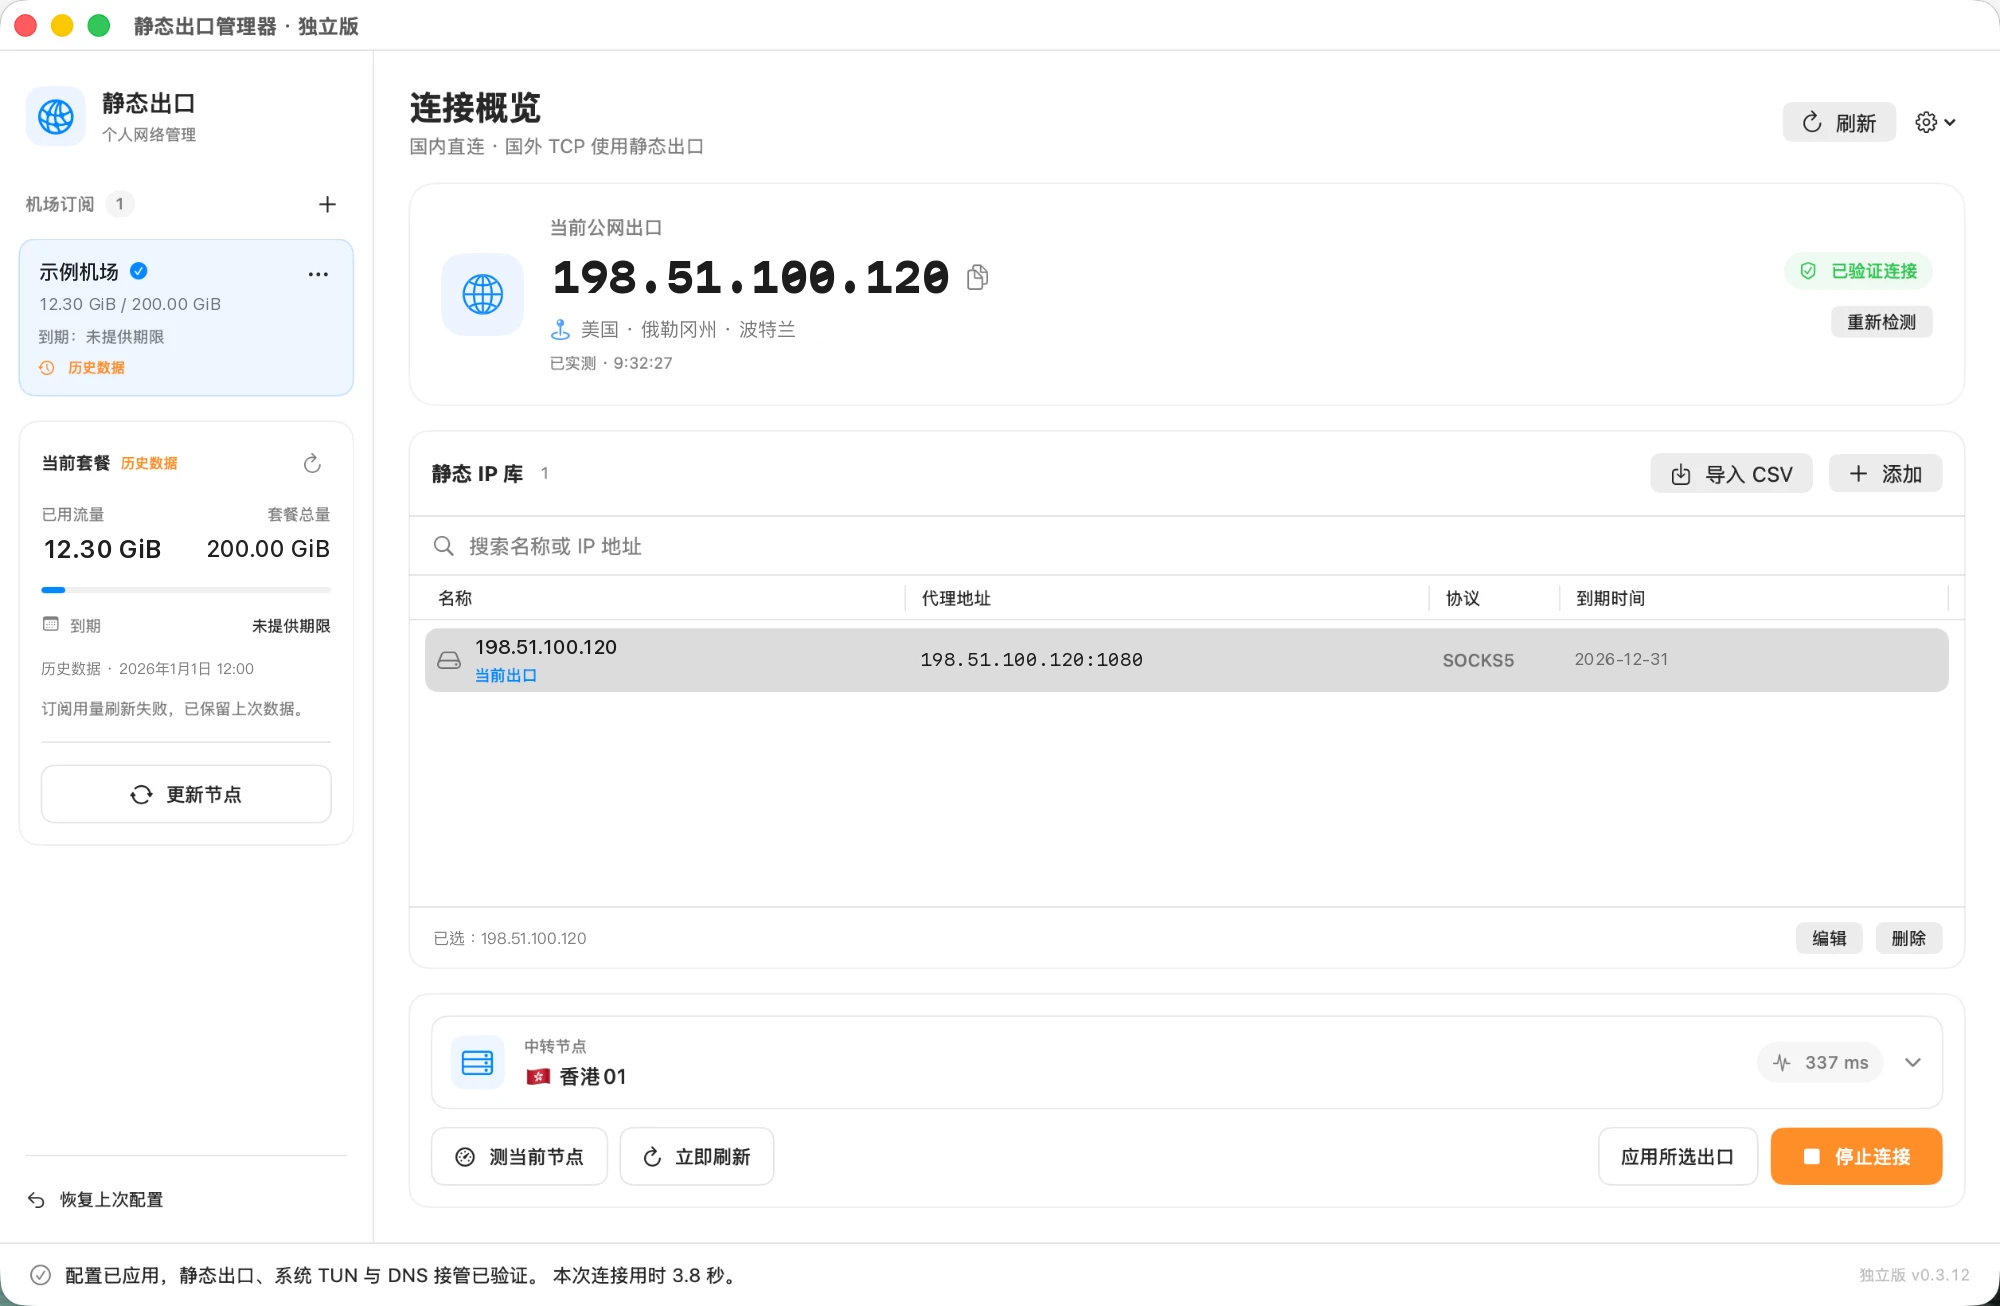
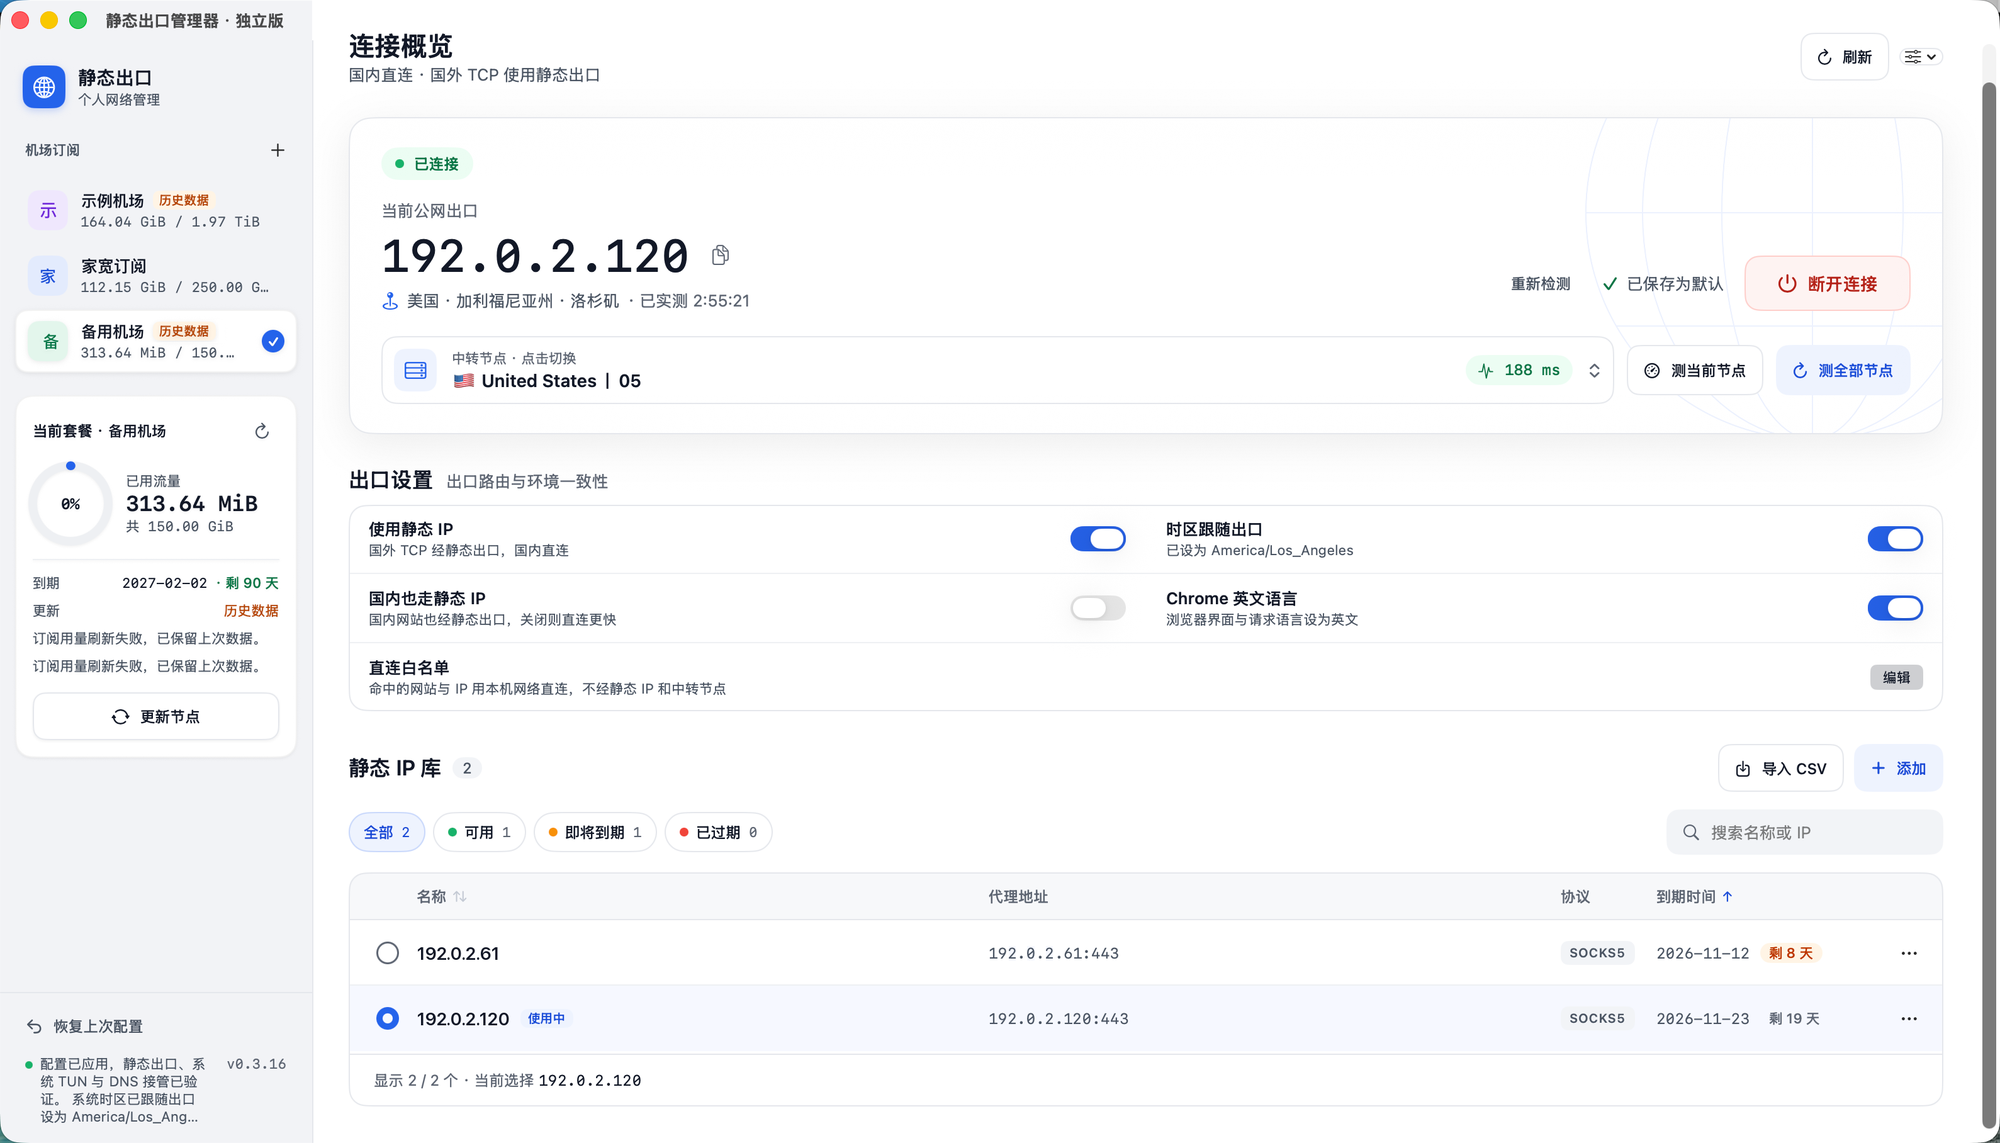
README 改为中英双语，更新 0.3.16 界面截图（示例数据）

diff --git a/README.md b/README.md
@@ -4,103 +4,87 @@
 
 <h1 align="center">静态出口管理器</h1>
 
-<p align="center">macOS 上的静态 IP 出口管理工具：国内直连，国外 TCP 经机场中转连接你的静态出口。内置 Mihomo 内核，不需要 Clash Verge。</p>
+<p align="center"><b>中文</b> | <a href="README.en.md">English</a></p>
+
+<p align="center">macOS 上的静态 IP 出口管理工具：国内直连，国外流量经机场中转、从你自己的静态 IP 出去。<br>内置 Mihomo 内核，开箱即用，不需要 Clash Verge。</p>
 
 <p align="center">
-  <a href="../../releases/latest"><b>下载最新版本</b></a>
+  <a href="../../releases/latest"><b>⬇ 下载最新版本</b></a>
 </p>
 
 ## 界面预览
 
-![已连接状态：显示实测公网出口、出口地点、静态 IP 库与中转节点](docs/screenshot.png)
+![连接概览：当前公网出口、中转节点、出口设置与静态 IP 库](docs/screenshot.png)
 
-- **左侧**：机场订阅列表与当前套餐的已用流量、总量和到期日；「更新节点」拉取最新节点配置。
-- **当前公网出口**：连接后显示实测出口 IP 与所在地点，「已验证连接」表示静态出口、系统 TUN 和 DNS 接管均已核实。
-- **静态 IP 库**：保存的静态 IP，可导入服务商 CSV 或手动添加，选中一条作为出口。
-- **中转节点**：选择经由的机场节点并显示延迟；已连接时切换节点或静态 IP 会自动重连。
-- **底部状态栏**：显示最近一次操作结果和连接耗时。
+> 截图中的订阅名称和 IP 均为示例数据。
 
-> 截图中的订阅、用量、IP 与地点均为示例数据。
+## 它能做什么
+
+很多服务会根据 IP 判断账号风险，频繁换 IP 容易触发验证甚至封号。静态出口管理器让你的海外流量始终从同一个静态 IP 出去，同时尽量不影响国内访问速度：
+
+- **国内直连**：国内网站和局域网不绕路，速度不受影响。
+- **国外经静态 IP**：国外 TCP 流量经机场节点中转，最终从你的静态 IP（SOCKS5）出去。
+- **出口实测**：每次连接都实测公网出口 IP 和所在地点；静态出口、系统 TUN 和 DNS 接管都核实通过后，才显示「已连接」。
 
 ## 功能
 
-- 管理机场订阅（远程链接或 Clash/Mihomo YAML），显示已用流量、总量和到期日。
-- 管理静态 IP（SOCKS5），密码保存在 macOS 钥匙串。
-- 选择中转节点，后台每 10 分钟自动测速；已连接时切换节点或静态 IP 会自动重连并验证出口，失败自动恢复。
-- TUN 模式接管系统流量：国内与局域网直连，国外 TCP 经“机场 → 静态 IP”出口，并显示实测公网出口 IP 与地点。
-- 连接期间临时接管 DNS，停止后恢复；不修改永久系统代理与 DNS 设置。
-- 可一次性迁移本机 Clash Verge 的订阅和静态出口。
-- 未选择静态 IP 时，可只用中转节点连接。
-- 直连白名单：填入域名、网址或 IP/网段，命中的流量在任何模式下都用本机网络直连，不经静态 IP 和中转节点；修改后立即生效并断开旧连接。
-- 启动时自动检查更新（每 24 小时最多一次），也可在设置菜单手动检查；一键下载、校验并替换应用。
+**订阅与节点**
+- 支持机场订阅链接或 Clash/Mihomo YAML，显示已用流量、套餐总量、到期日和剩余天数。
+- 中转节点后台自动测速，可以测当前节点，也可以一键测全部节点；已连接时切换节点会自动重连，并重新验证出口。
+- 可以一次性迁移本机 Clash Verge 的订阅和静态出口。
+
+**静态 IP 库**
+- 管理多个静态 IP，支持导入服务商 CSV 或手动添加，密码保存在 macOS 钥匙串里。
+- 按「可用 / 即将到期 / 已过期」筛选和排序，到期前会提醒剩余天数。
+- 不选静态 IP 时，也可以只用中转节点连接。
+
+**出口设置**
+- **国内也走静态 IP**：除本机和局域网以外，所有流量都经静态出口。
+- **时区跟随出口**：连接期间系统时区自动设为出口 IP 所在地，断开后恢复。
+- **Chrome 英文语言**：把 Chrome 的界面语言和网页请求语言切换为英文，可以随时还原。
+- **直连白名单**：命中的域名或 IP 始终用本机网络直连，修改后立即生效。
+
+**省心**
+- 连接期间临时接管系统流量和 DNS，断开后完全恢复，不改动永久的系统代理和 DNS 设置。
+- 切换失败会自动恢复上一次可用的配置。
+- 内置检查更新，一键下载、校验并替换应用。
 
 ## 系统要求
 
 - Apple Silicon（M 系列芯片）Mac
 - macOS 14 及以上
 
-无需安装 Python、Ruby 或其他软件。
+不需要另外安装 Python、Clash 或其他软件。
 
 ## 安装
 
 1. 在 [Releases](../../releases/latest) 下载 `StaticExitManager-<版本>-arm64.dmg`。
-2. 打开 dmg，把「静态出口管理器独立版」拖到「Applications（应用程序）」。
-3. 打开应用。应用未经 Apple 公证，首次打开会提示无法验证开发者：
-   前往「系统设置 → 隐私与安全性」，在页面下方点「仍要打开」。
-4. 在应用中点「安装网络服务」，输入一次电脑登录密码。
+2. 打开 dmg，把「静态出口管理器独立版」拖进「应用程序」。
+3. 首次打开时，系统如果提示无法验证开发者，到「系统设置 → 隐私与安全性」，点页面下方的「仍要打开」。
+4. 在应用里点「安装网络服务」，输入一次电脑登录密码。
 
 ## 使用
 
 1. 先关闭其他 VPN 的 TUN 模式和系统代理。
-2. 添加机场订阅链接、导入 YAML，或迁移 Clash Verge 配置。
-3. 添加静态 IP，选择订阅、静态 IP 与中转节点，点「开始连接」。
-4. 「停止连接」会退出内核并释放 TUN。关闭窗口不会断开连接；重启电脑后不会自动连接。
+2. 添加机场订阅，或迁移 Clash Verge 的配置。
+3. 添加静态 IP，选好中转节点后点「连接」。
+4. 「断开连接」会释放所有接管。关闭窗口不会断开连接；重启电脑后不会自动连接。
 
-## 数据与隐私
+## 隐私
 
-| 内容 | 位置 |
-|---|---|
-| 静态 IP 信息 | `~/Library/Application Support/StaticExitManager/profiles.json` |
-| 静态 IP 密码 | macOS 钥匙串 |
-| 订阅、节点缓存、选择、备份、诊断日志 | `~/Library/Application Support/StaticExitManager/standalone/` |
-| 网络服务与内核运行目录 | `/Library/Application Support/StaticExitManagerService/` |
+- 所有数据只保存在本机，没有遥测，也没有云同步；静态 IP 的密码存放在 macOS 钥匙串。
+- 只有在查询出口地点时，才会把公网出口 IP 发给 [ipwho.is](https://ipwhois.io/)，不会发送订阅、账号或密码。
 
-- 所有数据只保存在本机，没有遥测或云同步。
-- 连接成功后会把公网出口 IP 发送给 [ipwho.is](https://ipwhois.io/) 查询地点，不发送订阅、账号或密码。
-- 出口检测访问 `1.1.1.1`、`1.0.0.1` 的 trace 页面，必要时访问 `api.ipify.org`、`icanhazip.com`。
+## 已知限制
 
-## 工作方式
-
-- **界面**（SwiftUI）以普通用户权限运行，调用应用内置的独立 Python 后台处理订阅、配置生成和出口检测。
-- **网络服务**（`/Library/PrivilegedHelperTools/local.staticexit.network`）以 root 运行，只负责内置 Mihomo 内核的校验、启动、重载和停止。它只接受安装时的用户和这份应用的签名；重新安装或更新应用后，需要在应用中重新安装网络服务。
-- 内核控制接口为 root 私有 Unix socket；HTTP/SOCKS 混合端口只监听 `127.0.0.1:17896`。
-
-## 限制
-
-- 国外 UDP 和未匹配直连规则的公网 IPv6 会被拒绝。
-- 只支持包含 `proxies` 列表的 Clash/Mihomo YAML 订阅；暂不支持仅 `proxy-providers`、Base64 通用链接或需要插件的订阅。
+- 国外 UDP 和公网 IPv6 会被拦截（直连白名单内的除外），防止绕过静态出口。
+- 只支持带 `proxies` 列表的 Clash/Mihomo YAML 订阅。
 - 不提供断线锁网。
-
-## 从源码构建
-
-```sh
-uv python install 3.12   # 准备独立 Python（python-build-standalone）
-./build.sh               # 构建并安装到 ~/Applications
-./make_dmg.sh            # 生成 dist/StaticExitManager-<版本>-arm64.dmg
-```
-
-运行测试：
-
-```sh
-python3 -m unittest test_backend test_connection_parallel test_validation_cache test_exit_location
-```
 
 ## 第三方组件
 
-- [Mihomo](https://github.com/MetaCubeX/mihomo) v1.19.33（GPL-3.0），官方发布包校验值见 `vendor/manifest.json`，许可证见 `vendor/LICENSE-mihomo`
-- [Python](https://www.python.org/) 3.12（PSF License），来自 [python-build-standalone](https://github.com/astral-sh/python-build-standalone)
-- [PyYAML](https://github.com/yaml/pyyaml) 6.0.3（MIT），见 `vendor/pylib/LICENSE-pyyaml`
+[Mihomo](https://github.com/MetaCubeX/mihomo)（GPL-3.0）、[Python](https://www.python.org/)（PSF License）、[PyYAML](https://github.com/yaml/pyyaml)（MIT）。
 
 ## 免责声明
 
-本项目仅供学习与个人网络管理使用。请遵守所在地法律法规。
+本项目仅供学习和个人网络管理使用，请遵守所在地的法律法规。

diff --git a/README.en.md b/README.en.md
@@ -1,0 +1,90 @@
+<p align="center">
+  <img src="Assets/AppIcon-preview.png" width="128" alt="Icon">
+</p>
+
+<h1 align="center">Static Exit Manager</h1>
+
+<p align="center"><a href="README.md">中文</a> | <b>English</b></p>
+
+<p align="center">A static-IP exit manager for macOS: domestic (China) traffic goes direct, while overseas traffic is relayed through your proxy subscription and exits from your own static IP.<br>Ships with a built-in Mihomo core. No Clash Verge required.</p>
+
+<p align="center">
+  <a href="../../releases/latest"><b>⬇ Download the latest release</b></a>
+</p>
+
+## Screenshot
+
+![Connection overview: current public exit, relay node, exit settings and static IP library](docs/screenshot.png)
+
+> Subscription names and IP addresses in the screenshot are sample data. The app UI is in Chinese.
+
+## What it does
+
+Many services judge account risk by IP address, and switching IPs too often can trigger verification or even get accounts banned. Static Exit Manager keeps your overseas traffic leaving from the same static IP, without slowing down domestic sites:
+
+- **Domestic traffic goes direct**: China sites and your LAN are not rerouted, so they stay fast.
+- **Overseas traffic exits from your static IP**: overseas TCP traffic is relayed through a node from your subscription and leaves from your static IP (SOCKS5).
+- **Verified exit**: every connection measures the real public exit IP and its location. The app shows "Connected" only after the static exit, the system TUN and DNS takeover have all been verified.
+
+## Features
+
+**Subscriptions and nodes**
+- Accepts subscription URLs or Clash/Mihomo YAML files, and shows used traffic, total quota, expiry date and days remaining.
+- Relay nodes are speed-tested in the background. You can test the current node or all nodes at once. Switching nodes while connected reconnects and re-verifies the exit automatically.
+- Can import the subscriptions and static exit from an existing Clash Verge setup in one step.
+
+**Static IP library**
+- Manage multiple static IPs: import a provider CSV or add them by hand. Passwords are stored in the macOS Keychain.
+- Filter and sort by available / expiring soon / expired, with days remaining shown before expiry.
+- When no static IP is selected, you can connect through a relay node alone.
+
+**Exit settings**
+- **Route domestic traffic through the static IP too**: everything except local and LAN traffic exits from the static IP.
+- **Time zone follows the exit**: while connected, the system time zone matches the exit IP's location, and is restored when you disconnect.
+- **Chrome in English**: switches Chrome's interface language and the language it requests from websites to English. You can revert it at any time.
+- **Direct-connection allowlist**: listed domains and IPs always use your local network directly. Changes take effect immediately.
+
+**Hassle-free**
+- Takes over system traffic and DNS only while connected, and fully restores them afterwards. Permanent system proxy and DNS settings are never changed.
+- If a switch fails, the last working configuration is restored automatically.
+- Built-in update check: download, verify and replace the app in one click.
+
+## Requirements
+
+- Mac with Apple Silicon (M-series chip)
+- macOS 14 or later
+
+Nothing else to install: no Python, Clash or other software is needed.
+
+## Installation
+
+1. Download `StaticExitManager-<version>-arm64.dmg` from [Releases](../../releases/latest).
+2. Open the dmg and drag the app into Applications.
+3. If macOS says the developer cannot be verified the first time you open it, go to System Settings → Privacy & Security and click "Open Anyway" near the bottom of the page.
+4. In the app, click "安装网络服务" (Install Network Service) and enter your login password once.
+
+## Usage
+
+1. Turn off TUN mode and the system proxy in any other VPN first.
+2. Add a subscription, or import your Clash Verge configuration.
+3. Add a static IP, choose a relay node and click Connect.
+4. Disconnect releases everything the app took over. Closing the window does not disconnect, and the app does not connect automatically after a restart.
+
+## Privacy
+
+- All data stays on your Mac, with no telemetry or cloud sync. Static IP passwords are stored in the macOS Keychain.
+- To look up the exit location, the app sends only the public exit IP to [ipwho.is](https://ipwhois.io/). It never sends your subscriptions, accounts or passwords.
+
+## Known limitations
+
+- Overseas UDP and public IPv6 are blocked (except for allowlisted destinations) so they cannot bypass the static exit.
+- Only Clash/Mihomo YAML subscriptions that contain a `proxies` list are supported.
+- There is no kill switch if the connection drops.
+
+## Third-party components
+
+[Mihomo](https://github.com/MetaCubeX/mihomo) (GPL-3.0), [Python](https://www.python.org/) (PSF License), [PyYAML](https://github.com/yaml/pyyaml) (MIT).
+
+## Disclaimer
+
+This project is for learning and personal network management only. Please comply with the laws and regulations where you live.
